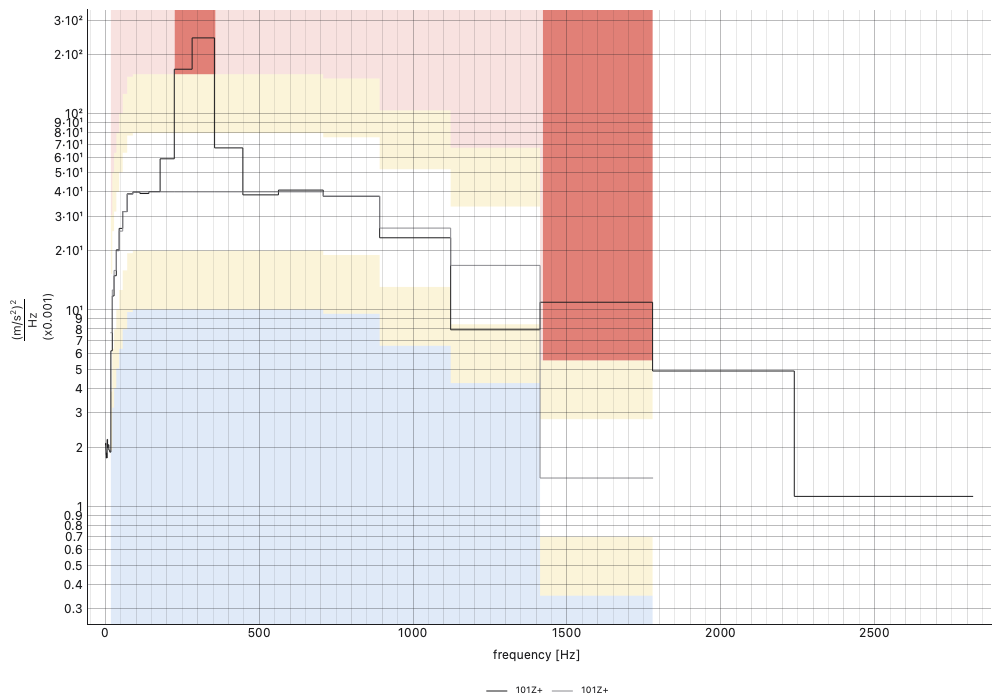
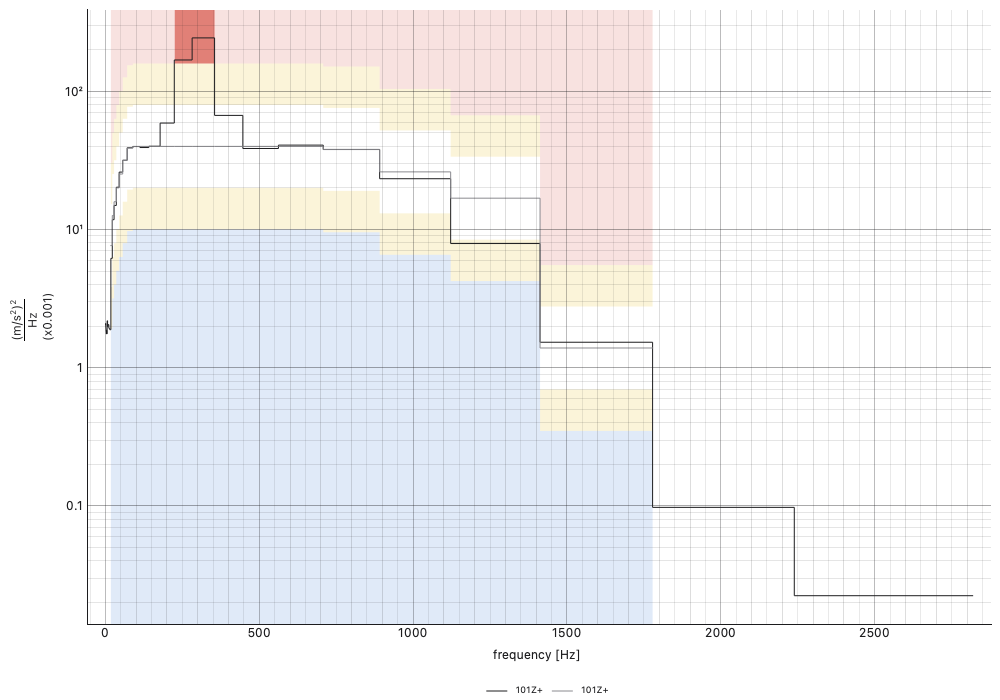
The guide's edge case is the controlled response

Changed region(s): [[0.031, 0.0, 0.992, 0.87], [0.062, 0.06, 0.093, 0.09]]

diff --git a/tools/make_concept_figures.py b/tools/make_concept_figures.py
@@ -151,13 +151,20 @@ def compliance():
         got = compare(specification, measured, scale_db=0)
         print(f'{name:>24}: {got["lines"]} cells, {got["abort_percent"]:.1f}% '
               f'of the band outside abort, RMS {got["difference_db"]:+.2f} dB')
-    # the end of a requirement inside a band: the lines end at 1450 Hz,
-    # the third-octave band holding 1450 reaches to 1778 and stays
-    # whole, and the measurement runs on to Nyquist
+    # the end of a requirement inside a band: the lines end at 1450 Hz
+    # and the third-octave band holding 1450 reaches to 1778, whole.
+    # The controller held the narrowband response to the requirement
+    # and drove nothing past it, so the response falls away there
+    # too — the case that happens (Brandon, 2026-09-20)
+    import numpy as np
+
     short = _lines(breakpoints, high=1450.0).to_octave(3)
-    plot_comparison(octave, short, unit_system=SI, show=False,
+    controlled = _response(breakpoints, seed=7)
+    beyond = np.asarray(controlled.abscissa) > 1450.0
+    controlled.ordinate[:, beyond] *= 0.02
+    plot_comparison(controlled.to_octave(3), short, unit_system=SI, show=False,
                     path=str(OUT / 'compliance-edge.png'))
-    got = compare(short, octave, scale_db=0)
+    got = compare(short, controlled.to_octave(3), scale_db=0)
     print(f'{"edge":>24}: {got["lines"]} cells, judged to {got["band"][1]:.0f} Hz, '
           f'the whole last band; {got["abort_lines"]} band out')
     # a hole: a controller's notch, written as zero across 400-500 Hz

diff --git a/tests/test_judgment.py b/tests/test_judgment.py
@@ -229,6 +229,13 @@ def test_a_requirement_ending_inside_a_band_is_judged_over_the_whole_band():
     assert not verdict['out'][:-1].any(), 'and only it'
     x = np.asarray(measured.abscissa)
     assert verdict['lines'][x > right[-1]].sum() == 0
+    # the case that happens (Brandon, 2026-09-20): a controller holds
+    # the response to the requirement and drives nothing past it, so
+    # the response falls away past 1450 Hz too, both last bands sit
+    # low together, and the band is in
+    controlled = response(lambda f: np.where(f > 1450.0, 0.02, 1.0)).to_octave(3)
+    over, under = compliance.exceedances(short, controlled, scale_db=0)
+    assert not over.any() and not under.any()
     # the same requirement ending on a band edge is filled and clean
     whole = lines(high=1777.0).to_octave(3)   # the lines end on the band's edge
     over, under = compliance.exceedances(whole, measured, scale_db=0)

diff --git a/docs/guide/compliance.md b/docs/guide/compliance.md
@@ -121,19 +121,32 @@ Here the requirement's lines end at 1450 Hz, and the third-octave
 band that holds 1450 Hz reaches to 1778. An octave band is a defined
 frequency band: banding keeps it whole — its center, width and edges
 are the standard's — and the band holds what the lines put in it,
-spread over its whole width, so it reads lower than its neighbors.
-That is what a band of a requirement ending inside it is. The
-comparison then judges the whole band: the measurement's power from
-1413 to 1778 Hz against that. A measurement running on past 1450 Hz
-at the target's level holds several times what the banded
-requirement asks there, and the band is out — the consequence of
-banding a requirement onto a band it does not fill, which the
-narrowband comparison (the lines figures above) does not have.
-Past the last band nothing is judged.
+spread over its whole width, so the banded requirement's last band
+reads lower than its neighbors. That is what a band of a requirement
+ending inside it is, and the octave-band specification says so
+rather than pretending the requirement reached 1778 Hz.
+
+The banded measurement is judged against it over the whole band,
+1413 to 1778 Hz, and in the case that happens that is fair. A
+controller holds the narrowband response to the requirement and
+drives nothing past it, so the response falls away past 1450 Hz too;
+its band then holds about what the requirement's band holds, and the
+band is in. The figure is that case: the response is on the target
+to 1450 Hz and a fiftieth of it beyond, the last band of each side
+sits low together, and past the last band nothing is judged.
+
+What the band would say about a response that did *not* fall away —
+one running on at the target's level to 1778 Hz — is that it holds
+several times what the banded requirement asks there, and the band
+would be out. That is a true statement about the band: the
+requirement, banded, asks for that much power in that band and no
+more. It is not a statement the narrowband comparison would make,
+since its cells stop where the lines do, and it is the reason to
+read the narrowband figures for the end of a requirement.
 
 ![The banded requirement's last band whole and lower, the banded
-measurement over it there and unjudged beyond
-it](images/compliance-edge.png)
+measurement's last band low beside it and in, nothing judged
+beyond](images/compliance-edge.png)
 
 ### A hole in a requirement
 
